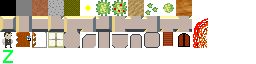
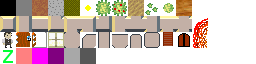
Added: * A few more tiles, and animation_hit definition * Hit animation function definitions and addition to drawing system. * Separated hit animation drawing between curses and tile supported versions * Alterations to player.cpp, game.cpp, and ranged.cpp to conform to hit animation abstraction func

Changed region(s): [[0.0625, 0.75, 0.375, 1.0]]

diff --git a/animation_tiles.cpp b/animation_tiles.cpp
@@ -68,4 +68,69 @@ void game::draw_bullet(player &p, int tx, int ty, int i, std::vector<point> traj
         tilecontext->void_bullet();
    }
 }
+/* Monster hit animation */
+void game::draw_hit_mon(int x, int y, monster m, bool dead)
+{
+    int iTimeout = 0;
+    tilecontext->init_draw_hit(x, y, monster_names[m.type->id]);
+    wrefresh(w_terrain);
+
+    timespec tspec;
+    tspec.tv_sec = 0;
+    tspec.tv_nsec = BULLET_SPEED;
+
+    nanosleep(&tspec, NULL);
+    /*
+    nc_color cMonColor = m.type->color;
+    char sMonSym = m.symbol();
+    hit_animation(x,
+                  y,
+                  red_background(cMonColor), dead?'%':sMonSym);
+    */
+    /*
+    x + VIEWX - u.posx - u.view_offset_x,
+                  y + VIEWY - u.posy - u.view_offset_y,
+    */
+    mvwputch(w_terrain,
+             x + VIEWX - u.posx - u.view_offset_x,
+             y + VIEWY - u.posy - u.view_offset_y,
+             c_white, ' ');
+    wrefresh(w_terrain);
+}
+/* Player hit animation */
+void game::draw_hit_player(player *p, bool dead)
+{
+    // get base name of player id
+    std::string pname = (p->is_npc()?"npc_":"player_");
+    // get sex of player
+    pname += (p->male?"male":"female");
+
+    tilecontext->init_draw_hit(p->posx, p->posy, pname);
+    wrefresh(w_terrain);
+
+    timespec tspec;
+    tspec.tv_sec = 0;
+    tspec.tv_nsec = BULLET_SPEED;
+
+    nanosleep(&tspec, NULL);
+    /*
+    hit_animation(p->posx - g->u.posx + VIEWX - g->u.view_offset_x,
+                  p->posy - g->u.posy + VIEWY - g->u.view_offset_y,
+                  red_background(p->color()), '@');
+    */
+    /*
+    if (iTimeout <= 0 || iTimeout > 999) {
+        iTimeout = 70;
+    }
+
+    timeout(iTimeout);
+    getch(); //useing this, because holding down a key with nanosleep can get yourself killed
+    timeout(-1);
+    */
+    mvwputch(w_terrain,
+             p->posx + VIEWX - u.posx - u.view_offset_x,
+             p->posy + VIEWY - u.posy - u.view_offset_y,
+             c_white, ' ');
+    wrefresh(w_terrain);
+}
 #endif

diff --git a/cata_tiles.cpp b/cata_tiles.cpp
@@ -394,7 +394,7 @@ void cata_tiles::draw(int destx, int desty, int centerx, int centery, int width,
             draw_entity(x,y);
         }
     }
-    in_animation = do_draw_explosion || do_draw_bullet;
+    in_animation = do_draw_explosion || do_draw_bullet || do_draw_hit;
     if (in_animation)
     {
         if (do_draw_explosion)
@@ -404,6 +404,11 @@ void cata_tiles::draw(int destx, int desty, int centerx, int centery, int width,
         if (do_draw_bullet)
         {
             draw_bullet_frame(destx, desty, centerx, centery, width, height);
+        }
+        if (do_draw_hit)
+        {
+            draw_hit_frame(destx, desty, centerx, centery, width, height);
+            void_hit();
         }
     }
     // check to see if player is located at ter
@@ -858,6 +863,13 @@ void cata_tiles::init_draw_bullet(int x, int y, std::string name)
     bul_pos_y = y;
     bul_id = name;
 }
+void cata_tiles::init_draw_hit(int x, int y, std::string name)
+{
+    do_draw_hit = true;
+    hit_pos_x = x;
+    hit_pos_y = y;
+    hit_entity_id = name;
+}
 /* -- Void Animators */
 void cata_tiles::void_explosion()
 {
@@ -873,7 +885,13 @@ void cata_tiles::void_bullet()
     bul_pos_y = -1;
     bul_id = "";
 }
-
+void cata_tiles::void_hit()
+{
+    do_draw_hit = false;
+    hit_pos_x = -1;
+    hit_pos_y = -1;
+    hit_entity_id = "";
+}
 /* -- Animation Renders */
 void cata_tiles::draw_explosion_frame(int destx, int desty, int centerx, int centery, int width, int height)
 {
@@ -913,6 +931,16 @@ void cata_tiles::draw_bullet_frame(int destx, int desty, int centerx, int center
 
     draw_from_id_string(bul_id, mx, my, 0, 0);
 }
+void cata_tiles::draw_hit_frame(int destx, int desty, int centerx, int centery, int width, int height)
+{
+    const int mx = hit_pos_x, my = hit_pos_y;
+    std::string hit_overlay = "animation_hit";
+
+    draw_from_id_string(hit_entity_id, mx, my, 0, 0);
+    draw_from_id_string(hit_overlay, mx, my, 0, 0);
+}
+
+/* END OF ANIMATION FUNCTIONS */
 
 void cata_tiles::init_light()
 {

diff --git a/game.h b/game.h
@@ -324,6 +324,13 @@ void load_artifacts(); // Load artifact data
  // ignore_player determines if player is affected, useful for bionic, etc.
  void shockwave(int x, int y, int radius, int force, int stun, int dam_mult, bool ignore_player);
 
+
+// Animation related functions
+  void draw_explosion(int x, int y, int radius, nc_color col);
+  void draw_bullet(player &p, int tx, int ty, int i, std::vector<point> trajectory, char bullet, timespec &ts);
+  void draw_hit_mon(int x, int y, monster m, bool dead = false);
+  void draw_hit_player(player *p, bool dead = false);
+
  private:
 // Game-start procedures
   bool opening_screen();// Warn about screen size, then present the main menu
@@ -500,10 +507,6 @@ void load_artifacts(); // Load artifact data
   void display_scent();   // Displays the scent map
   void mondebug();        // Debug monster behavior directly
   void groupdebug();      // Get into on monster groups
-
-// Animation related functions
-  void draw_explosion(int x, int y, int radius, nc_color col);
-  void draw_bullet(player &p, int tx, int ty, int i, std::vector<point> trajectory, char bullet, timespec &ts);
 
 
 // ########################## DATA ################################

diff --git a/animation_curses.cpp b/animation_curses.cpp
@@ -51,4 +51,26 @@ void game::draw_bullet(player &p, int tx, int ty, int i, std::vector<point> traj
          nanosleep(&ts, NULL);
    }
 }
+/* Monster hit animation */
+void game::draw_hit_mon(int x, int y, monster m, bool dead)
+{
+    /*
+    x - u.posx + VIEWX - u.view_offset_x,
+                y - u.posy + VIEWY - u.view_offset_y,
+    */
+    nc_color cMonColor = m.type->color;
+    char sMonSym = m.symbol();
+
+    hit_animation(x + VIEWX - u.posx - u.view_offset_x,
+                  y + VIEWY - u.posy - u.view_offset_y,
+                  red_background(cMonColor), dead?'%':sMonSym);
+}
+/* Player hit animation */
+void game::draw_hit_player(player *p, bool dead)
+{
+    hit_animation(p->posx + VIEWX - u.posx - u.view_offset_x,
+                  p->posy + VIEWY - u.posy - u.view_offset_y,
+                  red_background(p->color()), '@');
+}
+
 #endif

diff --git a/game.cpp b/game.cpp
@@ -10233,14 +10233,17 @@ void game::plmove(int x, int y)
   if (z[mondex].friendly == 0) {
    int udam = u.hit_mon(this, &z[mondex]);
    char sMonSym = '%';
-   nc_color cMonColor = z[mondex].type->color;
+   //nc_color cMonColor = z[mondex].type->color;
    if (z[mondex].hurt(udam))
     kill_mon(mondex, true);
    else
-    sMonSym = z[mondex].symbol();
-   hit_animation(x - u.posx + VIEWX - u.view_offset_x,
-                 y - u.posy + VIEWY - u.view_offset_y,
-                 red_background(cMonColor), sMonSym);
+    //sMonSym = z[mondex].symbol();
+   //hit_animation(x - u.posx + VIEWX - u.view_offset_x,
+   //              y - u.posy + VIEWY - u.view_offset_y,
+   //              red_background(cMonColor), sMonSym);
+   draw_hit_mon(x,
+                y,
+                z[mondex]);
    return;
   } else
    displace = true;

diff --git a/cata_tiles.h b/cata_tiles.h
@@ -150,6 +150,10 @@ class cata_tiles
         void draw_bullet_frame(int destx, int desty, int centerx, int centery, int width, int height);
         void void_bullet();
 
+        void init_draw_hit(int x, int y, std::string name);
+        void draw_hit_frame(int destx, int desty, int centerx, int centery, int width, int height);
+        void void_hit();
+
         /** Overmap Layer : Not used for now, do later*/
         bool draw_omap();
 
@@ -172,10 +176,13 @@ class cata_tiles
 
         bool do_draw_explosion;
         bool do_draw_bullet;
+        bool do_draw_hit;
 
         int exp_pos_x, exp_pos_y, exp_rad;
         int bul_pos_x, bul_pos_y;
         std::string bul_id;
+        int hit_pos_x, hit_pos_y;
+        std::string hit_entity_id;
 
         // offset values
         int o_x, o_y;

diff --git a/ranged.cpp b/ranged.cpp
@@ -1097,9 +1097,15 @@ void shoot_monster(game *g, player &p, monster &mon, int &dam, double goodhit, i
         }
         bool bMonDead = mon.hurt(adjusted_damage, dam);
         if( u_see_mon ) {
+            g->draw_hit_mon(mon.posx,
+                            mon.posy,
+                            mon,
+                            bMonDead);
+        /*
             hit_animation(mon.posx - g->u.posx + VIEWX - g->u.view_offset_x,
                      mon.posy - g->u.posy + VIEWY - g->u.view_offset_y,
                      red_background(mon.type->color), (bMonDead) ? '%' : mon.symbol());
+        */
         }
 
         if (bMonDead) {

diff --git a/player.cpp b/player.cpp
@@ -3562,9 +3562,12 @@ int player::hit(game *g, body_part bphurt, int side, int dam, int cut)
   return dam;
 // TODO: Pre or post blit hit tile onto "this"'s location here
  if( g->u_see( this->posx, this->posy ) ) {
+    g->draw_hit_player(this);
+    /*
      hit_animation(this->posx - g->u.posx + VIEWX - g->u.view_offset_x,
                    this->posy - g->u.posy + VIEWY - g->u.view_offset_y,
                    red_background(this->color()), '@');
+    */
  }
 
  rem_disease("speed_boost");
